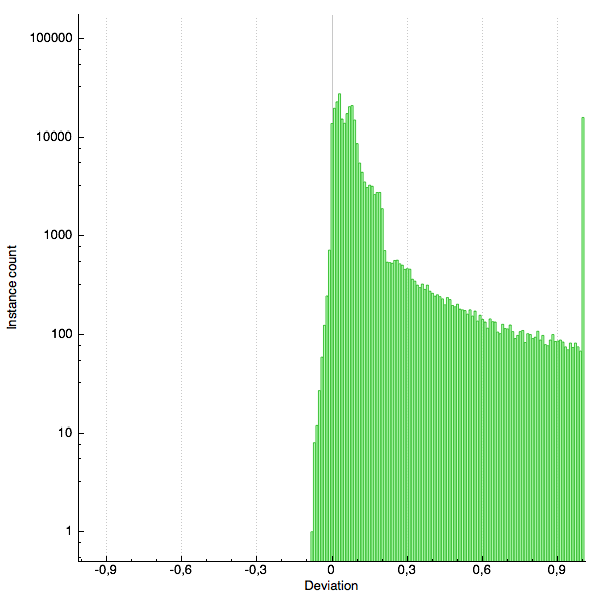
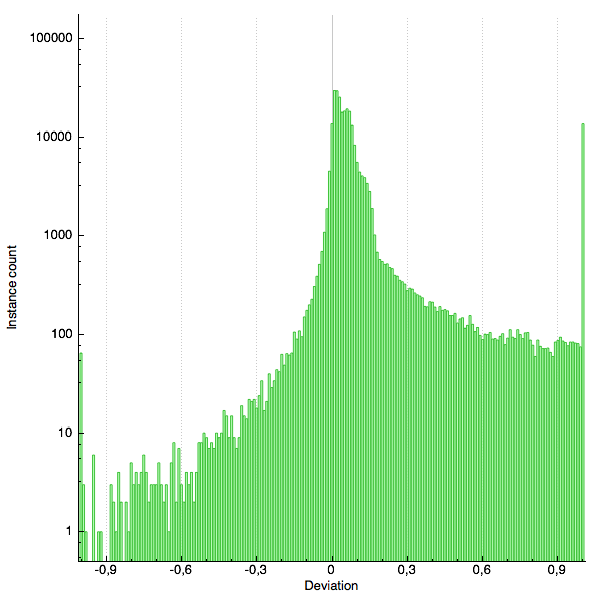
dot product added

diff --git a/nori_framework/src/ex4/path.cpp b/nori_framework/src/ex4/path.cpp
@@ -246,10 +246,13 @@ public:
 					Vector3f vec = itsL[0].p - itsL[1].p;
 					float d = std::sqrt(vec.squaredNorm());
 					vec /= d;
-					throughputs[1] = throughputs[0] * INV_PI
-									 * scene->evalTransmittance(Ray3f(itsL[1].p, vec, 0, d), sampler)
-									 * normal_path.dot(-vec)
-									 / probability_to_continue_light;
+					d = -normal_path.dot(vec);
+					if (d > 0) {
+						throughputs[1] = throughputs[0] * INV_PI
+									 	* scene->evalTransmittance(Ray3f(itsL[1].p, vec, 0, d), sampler)
+									 	* d
+									 	/ probability_to_continue_light;
+					}
 				} else {
 					throughputs[real_length] *= throughputs[real_length-1] * bsdfWeight / probability_to_continue_light;
 				}
